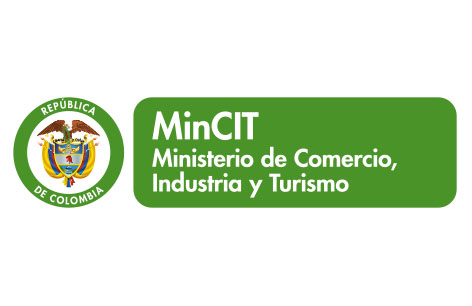
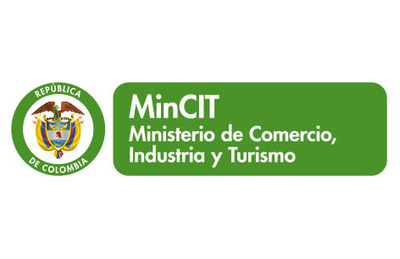
Menu Page

diff --git a/Menu.html b/Menu.html
@@ -32,39 +32,39 @@
 			<h2 class="subtitulo">Departaments</h2>
 
 			<nav>
-				<ul class="contenidoPrincipal-cursos">
-					<li class="contenidoPrincipal-cursos-link"><a href="#">Amazonas</a></li>
-					<li class="contenidoPrincipal-cursos-link"><a href="#">Antioquia</a></li>
-					<li class="contenidoPrincipal-cursos-link"><a href="#">Arauca</a></li>
-					<li class="contenidoPrincipal-cursos-link"><a href="#">Atlántico</a></li>
-					<li class="contenidoPrincipal-cursos-link"><a href="#">Bolivar</a></li>
-					<li class="contenidoPrincipal-cursos-link"><a href="#">Boyacá</a></li>
-					<li class="contenidoPrincipal-cursos-link"><a href="#">Caldas</a></li>
-					<li class="contenidoPrincipal-cursos-link"><a href="#">Caquetá</a></li>
-					<li class="contenidoPrincipal-cursos-link"><a href="#">Casanare</a></li>
-					<li class="contenidoPrincipal-cursos-link"><a href="#">Cauca</a></li>
-					<li class="contenidoPrincipal-cursos-link"><a href="#">Cesar</a></li>
-					<li class="contenidoPrincipal-cursos-link"><a href="#">Chocó</a></li>
-					<li class="contenidoPrincipal-cursos-link"><a href="#">Córdoba</a></li>
-					<li class="contenidoPrincipal-cursos-link"><a href="#">Cundinamarca</a></li>
-					<li class="contenidoPrincipal-cursos-link"><a href="#">Guainía</a></li>
-					<li class="contenidoPrincipal-cursos-link"><a href="#">Guaviare</a></li>
-					<li class="contenidoPrincipal-cursos-link"><a href="#">Huila</a></li>
-					<li class="contenidoPrincipal-cursos-link"><a href="#">La Guajira</a></li>
-                    <li class="contenidoPrincipal-cursos-link"><a href="#">Magdalena</a></li>
-					<li class="contenidoPrincipal-cursos-link"><a href="#">Meta</a></li>
-					<li class="contenidoPrincipal-cursos-link"><a href="#">Nariño</a></li>
-					<li class="contenidoPrincipal-cursos-link"><a href="#">Norte de Santander</a></li>
-                    <li class="contenidoPrincipal-cursos-link"><a href="#">Putumayo</a></li>
-					<li class="contenidoPrincipal-cursos-link"><a href="#">Quindío</a></li>
-                    <li class="contenidoPrincipal-cursos-link"><a href="#">Risaralda</a></li>
-					<li class="contenidoPrincipal-cursos-link"><a href="#">San Andrés y Providencia</a></li>
-					<li class="contenidoPrincipal-cursos-link"><a href="#">Santander</a></li>
-					<li class="contenidoPrincipal-cursos-link"><a href="#">Sucre</a></li>
-                    <li class="contenidoPrincipal-cursos-link"><a href="#">Tolima</a></li>
-					<li class="contenidoPrincipal-cursos-link"><a href="#">Valle del Cauca</a></li>
-                    <li class="contenidoPrincipal-cursos-link"><a href="#">Vaupés</a></li>
-					<li class="contenidoPrincipal-cursos-link"><a href="#">Vichada</a></li>
+				<ul class="contenidoPrincipal-depto">
+					<li class="contenidoPrincipal-depto-link"><a href="#">Amazonas</a></li>
+					<li class="contenidoPrincipal-depto-link"><a href="#">Antioquia</a></li>
+					<li class="contenidoPrincipal-depto-link"><a href="#">Arauca</a></li>
+					<li class="contenidoPrincipal-depto-link"><a href="#">Atlántico</a></li>
+					<li class="contenidoPrincipal-depto-link"><a href="#">Bolivar</a></li>
+					<li class="contenidoPrincipal-depto-link"><a href="#">Boyacá</a></li>
+					<li class="contenidoPrincipal-depto-link"><a href="#">Caldas</a></li>
+					<li class="contenidoPrincipal-depto-link"><a href="#">Caquetá</a></li>
+					<li class="contenidoPrincipal-depto-link"><a href="#">Casanare</a></li>
+					<li class="contenidoPrincipal-depto-link"><a href="#">Cauca</a></li>
+					<li class="contenidoPrincipal-depto-link"><a href="#">Cesar</a></li>
+					<li class="contenidoPrincipal-depto-link"><a href="#">Chocó</a></li>
+					<li class="contenidoPrincipal-depto-link"><a href="#">Córdoba</a></li>
+					<li class="contenidoPrincipal-depto-link"><a href="#">Cundinamarca</a></li>
+					<li class="contenidoPrincipal-depto-link"><a href="#">Guainía</a></li>
+					<li class="contenidoPrincipal-depto-link"><a href="#">Guaviare</a></li>
+					<li class="contenidoPrincipal-depto-link"><a href="#">Huila</a></li>
+					<li class="contenidoPrincipal-depto-link"><a href="#">La Guajira</a></li>
+                    <li class="contenidoPrincipal-depto-link"><a href="#">Magdalena</a></li>
+					<li class="contenidoPrincipal-depto-link"><a href="#">Meta</a></li>
+					<li class="contenidoPrincipal-depto-link"><a href="#">Nariño</a></li>
+					<li class="contenidoPrincipal-depto-link"><a href="#">Norte de Santander</a></li>
+                    <li class="contenidoPrincipal-depto-link"><a href="#">Putumayo</a></li>
+					<li class="contenidoPrincipal-depto-link"><a href="#">Quindío</a></li>
+                    <li class="contenidoPrincipal-depto-link"><a href="#">Risaralda</a></li>
+					<li class="contenidoPrincipal-depto-link"><a href="#">San Andrés y Providencia</a></li>
+					<li class="contenidoPrincipal-depto-link"><a href="#">Santander</a></li>
+					<li class="contenidoPrincipal-depto-link"><a href="#">Sucre</a></li>
+                    <li class="contenidoPrincipal-depto-link"><a href="#">Tolima</a></li>
+					<li class="contenidoPrincipal-depto-link"><a href="#">Valle del Cauca</a></li>
+                    <li class="contenidoPrincipal-depto-link"><a href="#">Vaupés</a></li>
+					<li class="contenidoPrincipal-depto-link"><a href="#">Vichada</a></li>
 				</ul>
 			</nav>
 		</div>
@@ -96,34 +96,43 @@
 				<nav class="rodapePrincipal-navMap-list">
 
 					<h4 class="navmap-list-title navmap-list-title-caribe">Region Caribe</h4>
-                    <p class="rodapePrincipal-navMap-link">Se caracteriza por su clima cálido y sus espectaculares playas. 
-                        En su mayoría se compone de territorio plano, pero también alberga 
-                        la formación montañosa litoral más alta del mundo: 
-                        la Sierra Nevada de Santa Marta.</p>
+                    <p class="rodapePrincipal-navMap-link">La Región Caribe se caracteriza por su clima 
+						cálido y sus espectaculares playas. En su mayoría se compone de territorio plano, 
+						pero también alberga la formación montañosa litoral más alta del mundo: la Sierra 
+						Nevada de Santa Marta. En sus costas se encuentra el Santuario de Ciénaga Grande 
+						de Santa Marta, compuesto por manglares de bosque, ríos, caños y pantano. Esta 
+						zona es de gran importancia para el refugio de aves migratorias procedentes de Norteamérica.</p>
 
 					<h4 class="navmap-list-title navmap-list-title-andina">Region Andina</h4>
-					<p class="rodapePrincipal-navMap-link">Se caracteriza por su clima cálido y sus espectaculares playas. 
-                        En su mayoría se compone de territorio plano, pero también alberga 
-                        la formación montañosa litoral más alta del mundo: 
-                        la Sierra Nevada de Santa Marta.</p>
+					<p class="rodapePrincipal-navMap-link">La Región Andina, una de las seis regiones 
+						naturales de Colombia, se encuentra en el centro del país y cuenta con un amplio 
+						rango de pisos térmicos y la mayor cantidad de parques naturales. A través de esta 
+						acogedora región de Colombia pasan las tres cordilleras de los andes, la occidental, 
+						central y oriental. Donde, la diversidad geográfica es inmensa:  el clima, la vegetación, 
+						la fauna, los cuerpos de agua (los principales ríos, Cauca y Magdalena), los tipos de 
+						relieve existentes (valles, cañones, mesetas) paisajes, entre otros.</p>
 					
 					<h4 class="navmap-list-title navmap-list-title-pacifica">Region Pacífica</h4>
-					<p class="rodapePrincipal-navMap-link">Se caracteriza por su clima cálido y sus espectaculares playas. 
-                        En su mayoría se compone de territorio plano, pero también alberga 
-                        la formación montañosa litoral más alta del mundo: 
-                        la Sierra Nevada de Santa Marta.</p>
+					<p class="rodapePrincipal-navMap-link">La región Pacífica colombiana se caracteriza por 
+						la existencia de ecosistemas estratégicos y de inmenso potencial que deben ser 
+						protegidos. Por su biodiversidad, el Pacífico es reconocido como uno de los lugares 
+						más privilegiados del planeta y es un punto estratégico para la inserción del país en 
+						la economía mundial y un factor fundamental para su competitividad.</p>
 
 					<h4 class="navmap-list-title navmap-list-title-orinoquia">Region Orinoquía</h4>
-					<p class="rodapePrincipal-navMap-link">Se caracteriza por su clima cálido y sus espectaculares playas. 
-                        En su mayoría se compone de territorio plano, pero también alberga 
-                        la formación montañosa litoral más alta del mundo: 
-                        la Sierra Nevada de Santa Marta.</p>
+					<p class="rodapePrincipal-navMap-link">Conocida también como la región de los llanos
+						 orientales, la Orinoquia es una de las regiones más importantes del país gracias
+						  a sus reservas de gas natural y petróleo, cuenta con paisajes de galería, 
+						  grandes variedades de ganado y una gastronomía que no puede pasar desapercibida,
+						   la ternera llanera, la hallaca y el palo a pique son algunos de sus platos más conocidos.</p>
 
                     <h4 class="navmap-list-title navmap-list-title-amazonia">Region Amazonía</h4>
-					<p class="rodapePrincipal-navMap-link">Se caracteriza por su clima cálido y sus espectaculares playas. 
-                        En su mayoría se compone de territorio plano, pero también alberga 
-                        la formación montañosa litoral más alta del mundo: 
-                        la Sierra Nevada de Santa Marta.</p>
+					<p class="rodapePrincipal-navMap-link">Esta region comprende el 42% del territorio nacional 
+						y se le conoce como el pulmón del mundo debido a su gran extensión selvática. Alberga 
+						la mayor variedad de peces de agua dulce del planeta y una variedad de mamíferos exóticos 
+						como el delfín rosado de río, el manatí, el jaguar, el puma, la nutria gigante, el pecarí, 
+						el tapir, el capibara, el perezoso y diversos primates. También se encuentran allí la 
+						tortuga de río y el caimán más grande del mundo.</p>
 
 				</nav>
 			</section>
@@ -134,18 +143,18 @@
 			<div class="container">
 				<ul class="rodapePrincipal-patrocinadores-list">
 					<li>
-						<a class="rodapePrincipal-patrocinadores-list-link patrocinadores-list-link-colombia-explore" href="#">
-							<img class="pat" src="img/Imagen4.png" alt="Logo CE">
+						<a class="rodapePrincipal-patrocinadores-list-link patrocinadores-list-link-unac" href="#">
+							<img class="pat" src="img/LogUnac.png" alt="Logo unac">
 						</a>
 					</li>
 					<li>
 						<a class="rodapePrincipal-patrocinadores-list-link patrocinadores-list-link-mincit" href="#">
-							<img class="pat" src="img/MINCIT.jpg" alt="Logo da Caelum">
+							<img class="pat" src="img/MINCIT.jpg" alt="Logo da MINCIT">
 						</a>
 					</li>
 					<li>
-						<a class="rodapePrincipal-patrocinadores-list-link patrocinadores-list-link-casaDoCodigo" href="#">
-							<img class="pat" src="img/logo-new.png" alt="Logo da Casa do Código">
+						<a class="rodapePrincipal-patrocinadores-list-link patrocinadores-list-link-colombia-explore" href="#">
+							<img class="pat" src="img/colEx.png" alt="Logo CE">
 						</a>
 					</li>
 				</ul>

diff --git a/css/styleMenu.css b/css/styleMenu.css
@@ -51,7 +51,7 @@ body {
 	text-align: center;
 }
 
-.contenidoPrincipal-cursos-link {
+.contenidoPrincipal-depto-link {
 	height: 100px;
 	background-color: #FFF;
 	text-align: center;
@@ -61,7 +61,7 @@ body {
 	position: relative;
 }
 
-.contenidoPrincipal-cursos-link a {
+.contenidoPrincipal-depto-link a {
 	text-decoration: none;
 	color: #000;
 	font-weight: bold;
@@ -73,26 +73,17 @@ body {
 	left: 0;
 }
 
-.contenidoPrincipal-cursos-link:hover {
+.contenidoPrincipal-depto-link:hover {
 	box-shadow: 4px 4px 4px #CCC;
 }
 
-.contenidoPrincipal-cursos-link a:before {
+.contenidoPrincipal-depto-link a:before {
 	content: '';
 	display: block;
 	width: 50px;
 	height: 50px;
 	margin: 10px auto;
 }
-
-.contenidoPrincipal-cursos-link:nth-child(even) a:before {
-	background: url(../img/background1.svg) no-repeat;	
-}
-
-.contenidoPrincipal-cursos-link:nth-child(odd) a:before {
-	background: url(../img/background2.svg) no-repeat;
-}
-
 
 .rodapePrincipal {
 	background-color: #8AC6DE;
@@ -138,7 +129,7 @@ body {
 	padding: 20px 0;
 }
 .pat{
-	object-fit	: fit-content;
+	width: 60%;
 }
 
 .rodapePrincipal-contatoForm {
@@ -254,34 +245,34 @@ body {
 		text-align: left;
 	}
 
-	.contenidoPrincipal-cursos-link:nth-child(3n) {
+	.contenidoPrincipal-depto-link:nth-child(3n) {
 		margin-right: 0;
 	}
 
-	.contenidoPrincipal-cursos-link:nth-child(3n+1) {
+	.contenidoPrincipal-depto-link:nth-child(3n+1) {
 		margin-left: 0;
 	}
 
 }
 
 @media(min-width: 1000px) {
-	.contenidoPrincipal-cursos-link {
+	.contenidoPrincipal-depto-link {
 		margin: 1.333%;
 	}
 
-	.contenidoPrincipal-cursos-link:nth-child(3n) {
+	.contenidoPrincipal-depto-link:nth-child(3n) {
 		margin-right: 1.33%;
 	}
 
-	.contenidoPrincipal-cursos-link:nth-child(3n+1) {
+	.contenidoPrincipal-depto-link:nth-child(3n+1) {
 		margin-left: 1.333%;
 	}
 
-	.contenidoPrincipal-cursos-link:nth-child(4n) {
+	.contenidoPrincipal-depto-link:nth-child(4n) {
 		margin-right: 0;
 	}
 
-	.contenidoPrincipal-cursos-link:nth-child(4n+1) {
+	.contenidoPrincipal-depto-link:nth-child(4n+1) {
 		margin-left: 0;
 	}
 

diff --git a/css/flexbox.css b/css/flexbox.css
@@ -34,12 +34,12 @@
 	display: flex;
 }
 
-.contenidoPrincipal-cursos {
+.contenidoPrincipal-depto {
 	display: flex;
 	flex-wrap: wrap;
 }
 
-.contenidoPrincipal-cursos-link {
+.contenidoPrincipal-depto-link {
 	display: flex;
 	width: 23%;
 }
@@ -76,11 +76,11 @@
 		flex-direction: column;
 	}
 
-	.contenidoPrincipal-cursos {
+	.contenidoPrincipal-depto {
 		flex-direction: column;
 	}
 
-	.contenidoPrincipal-cursos-link {
+	.contenidoPrincipal-depto-link {
 		width: 100%;
 	}
 
